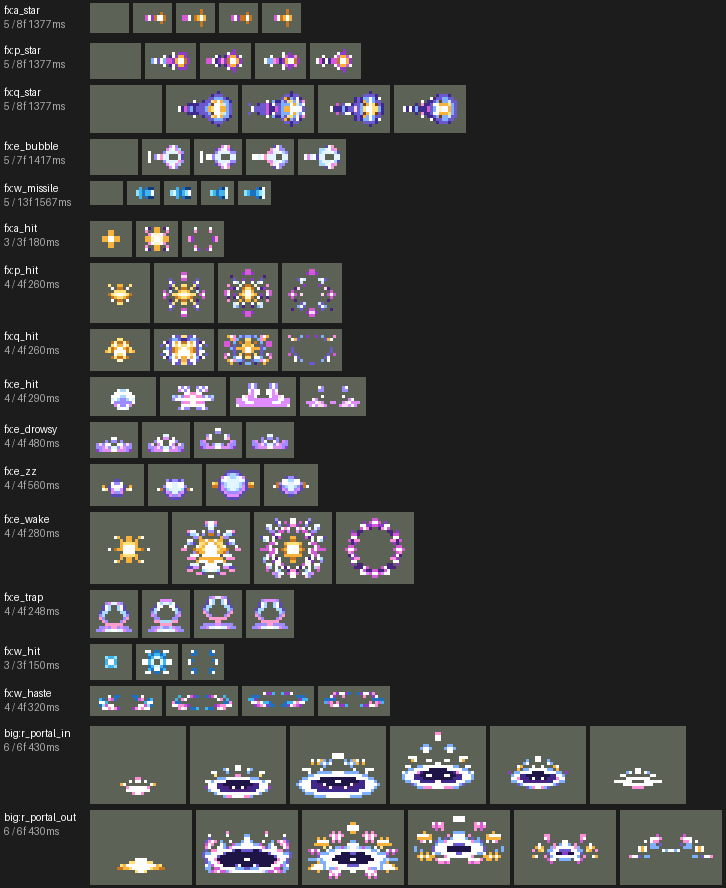
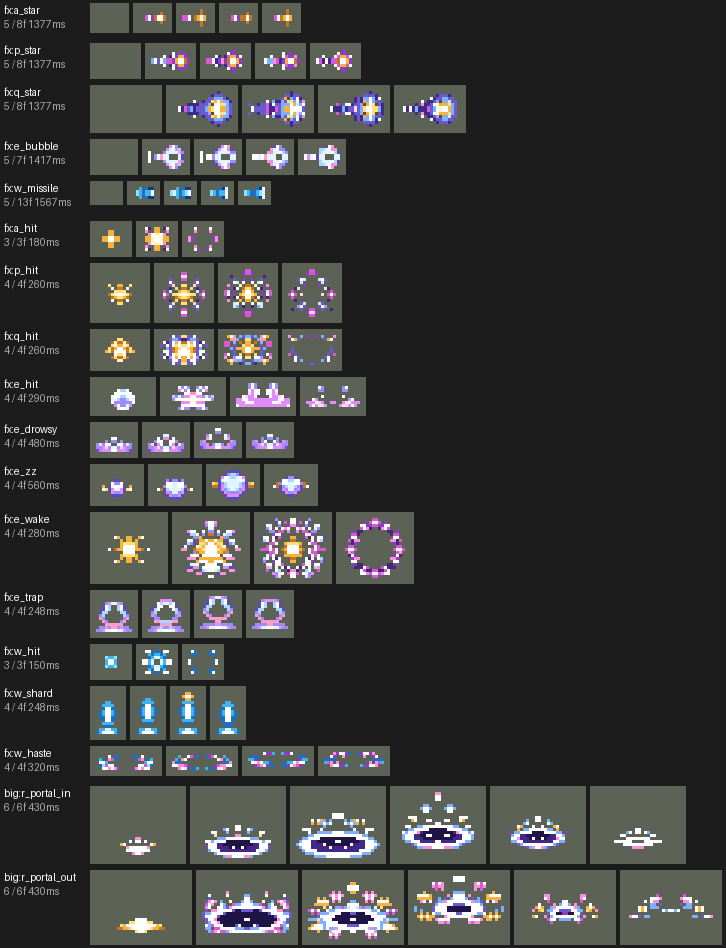
Zoe: the add-on's spell shard (w_shard, Codex redo pack) imported

diff --git a/assets/source/zoe/codex_fx/zoe_fx_shard/HANDOFF.md b/assets/source/zoe/codex_fx/zoe_fx_shard/HANDOFF.md
@@ -1,0 +1,19 @@
+# 佐伊W法术碎片补充包
+
+本包只补充w_shard，共4帧；合并后的完整素材为18组、74帧。
+
+- `zoe_fx_w_shard.png`：320×112，8倍图；每帧80×112。
+- `pixel_1x/zoe_fx_w_shard.png`：40×14，游戏原尺寸；横排4帧，每帧10×14，按从左到右切帧。
+- `previews/w_shard.gif`：暗底动态预览，每帧160ms，仅供查看。
+- `raw/zoe_fx_w_shard.png`：最终采用的image_gen原稿；`raw/zoe_fx_w_shard-initial.png`为首稿，均原样保留。
+- `manifest.json`：仅含w_shard的帧数、尺寸、左右对称规则、绑定和取格参数。
+- `generation-prompts.txt`：首稿与定向修订的实际提示词。
+- `validation.json`：逐帧检查结果。
+
+形状由image_gen绘制，修订稿加强了水晶高度和金色星角。交付图从原稿取格并量化到天蓝、金白色板，以对称格合并前景多数颜色；alpha阈值192，前景覆盖阈值10%保留小星角，高亮像素按原包15%票数保留。单帧10格为偶数宽，严格镜像时中心采用成对像素列，局部形状做整格简化。没有用代码构造水晶或星星形状。
+
+4帧均已检查非空、硬alpha仅0/255、逐像素左右对称、亮芯；仅第3帧有金色闪光。原尺寸40×14及8倍320×112均已核对，8倍图为严格最近邻放大。原稿、游戏图与暗底预览已对照检查。
+
+导入绑定：view_effects `league_zoe_w_shard`，地面固定点，不跟随，z=-1，每15tick重放。使用pixel_1x切帧，最终游戏播放速度由工程配置。未导入或运行游戏实测。参考贴图只在本地查看，未随包交付。
+
+这是仅含新增碎片的独立清单；需要全部特效时使用已更新的完整包。请勿将本包仅含一项的manifest误当成完整18组清单。
